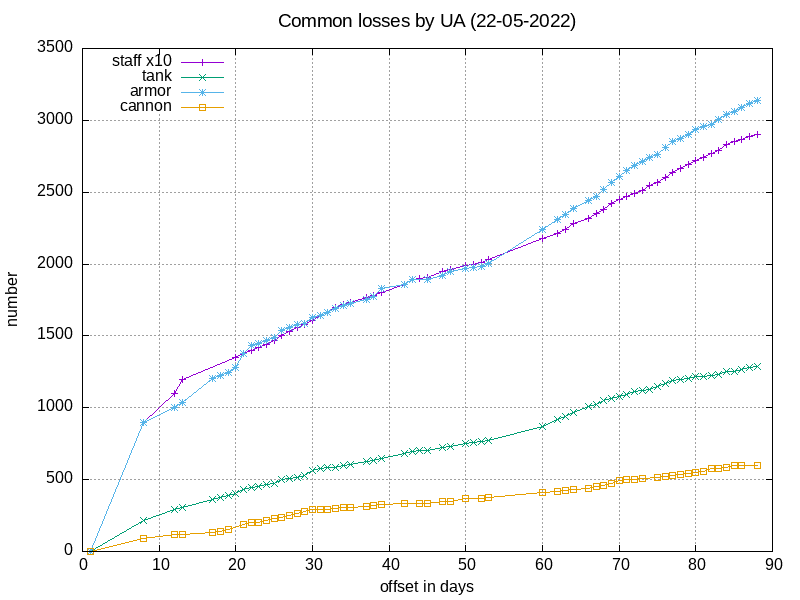
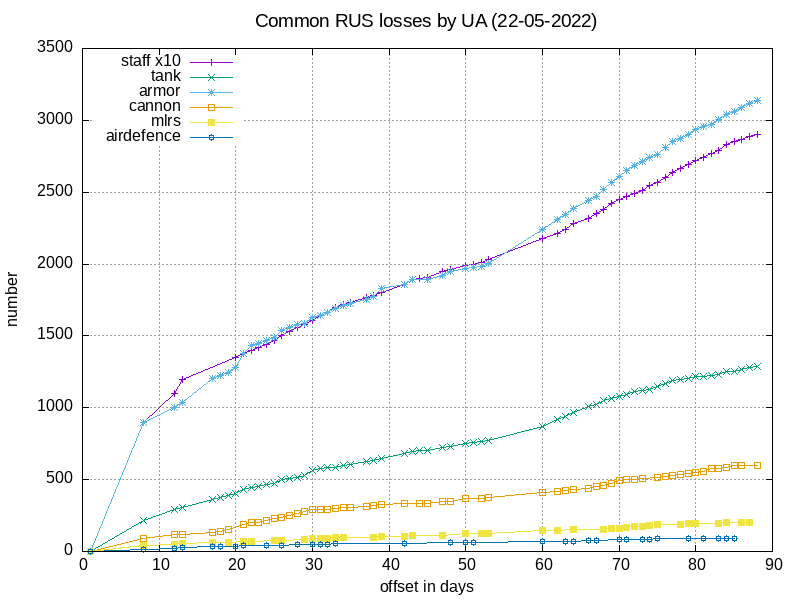
mlrs airdefence

diff --git a/README.md b/README.md
@@ -2,3 +2,6 @@
 ![plot](./staff.png)
 ![plot](./tank.png)
 ![plot](./armor.png)
+
+![plot](./mlrs.png)
+![plot](./airdefence.png)
